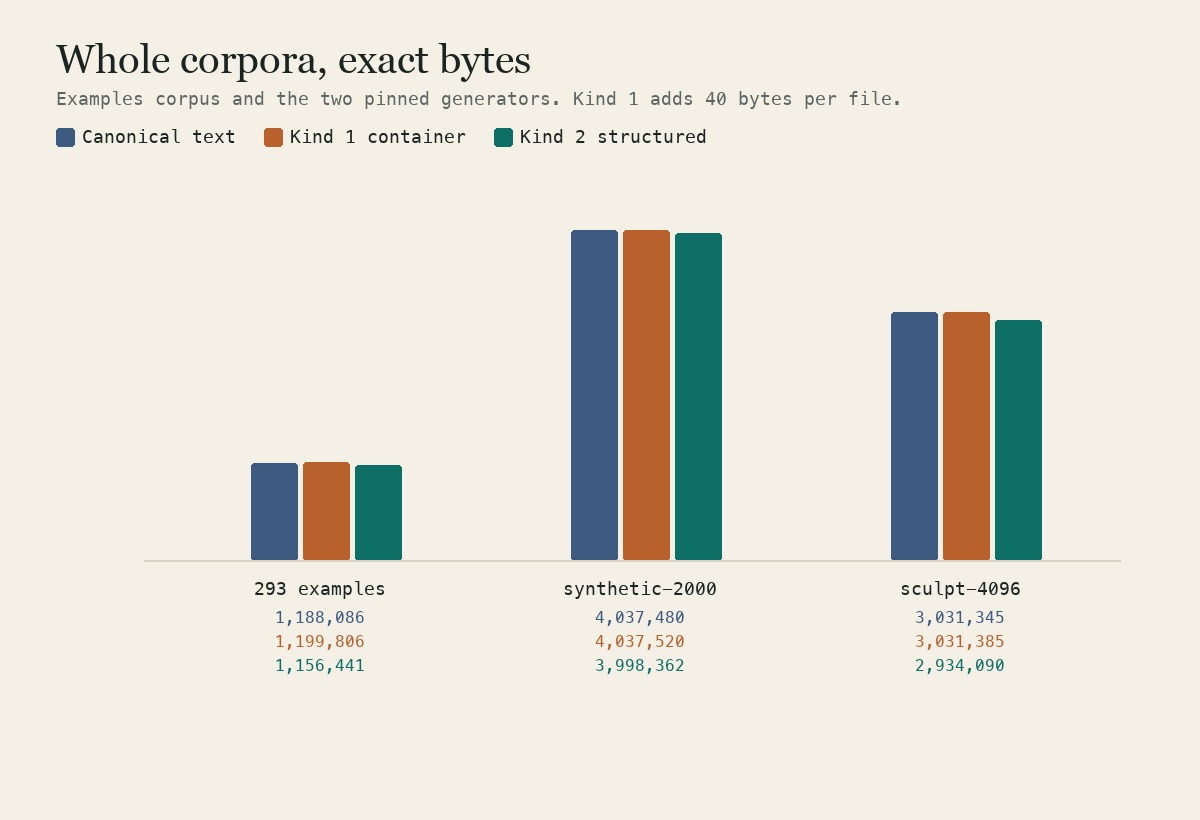
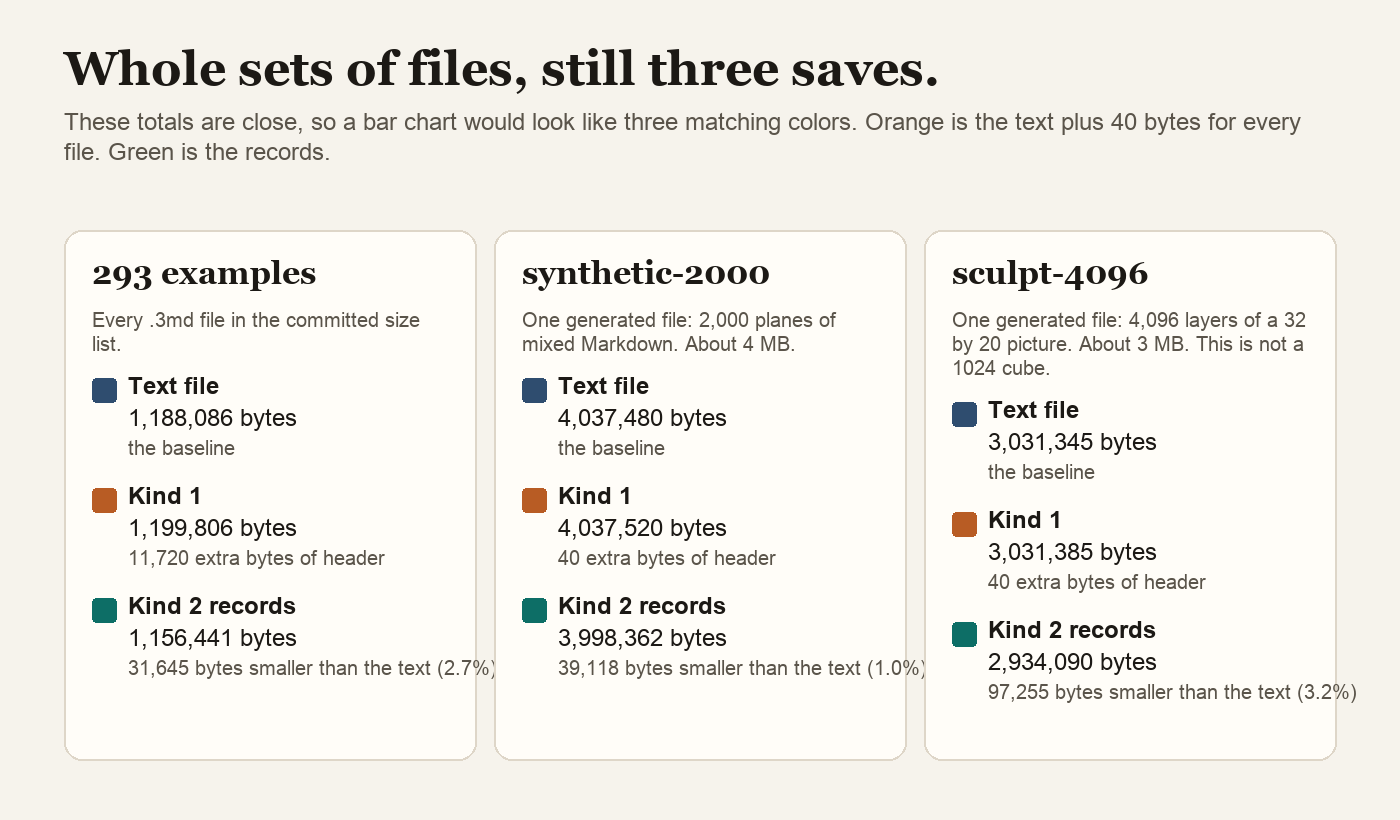
Fix: explain the README charts in plain language
The pictures compare one document saved three ways: the text file, that
text plus a 40-byte header, and structured records. The 64 MiB ceiling is
a safety stop. The 1024 cube test is a 1 GB buffer the library refuses.

diff --git a/README.md b/README.md
@@ -39,9 +39,8 @@ and scrub through them.
   <a href="https://corvidlabs.github.io/3md/"><img src="docs/demo.png" alt="The 3md interactive demo: planes stacked along the Z axis with a synced source view" width="760"></a>
 </p>
 
-The pictures below compare the readable text with the two binary payloads,
-including a 1 GiB and a 10 GiB input. Those two are refused. The ceiling is
-64 MiB.
+[Same document, three saves](#same-document-three-saves) shows one file stored
+as text and as two kinds of binary, and why a file bigger than 64 MB is refused.
 
 ```
 ---
@@ -88,56 +87,83 @@ with the author declaring what that axis means. Nothing comparable ships today;
 the closest prior art renders existing Markdown into 3D rather than giving the
 text a depth dimension of its own.
 
-## Text, kind 1, and kind 2
+## Same document, three saves
 
-A `.3md` file stays text. `.binary` writes payload kind 2: the same document as
-structured records inside a 40-byte header. `encodeTextContainer` writes payload
-kind 1: that same header in front of the canonical UTF-8. Kind 1 is what a
-ThreeMD 2.0 reader accepts. A 2.0 reader stops on kind 2 with
-`unsupportedPayloadKind(2)` before it checks the CRC.
+Yes. The pictures compare the non-binary text file with two binary saves of
+that same document. They do not compare different documents, and the colors
+are not a score. Each color is one way to save the file.
+
+| Color | Save | What you are looking at |
+| --- | --- | --- |
+| Blue | Text file | The `.3md` file. Ordinary UTF-8. This is the baseline. |
+| Orange | Kind 1 | That same text inside a binary file, after a 40-byte header. Always 40 bytes larger. A ThreeMD 2.0 reader can open it. |
+| Green | Kind 2 | The same document as binary records. Usually a little smaller than the text. A wall of the same letter can be a few bytes larger. A 2.1 reader opens it. A 2.0 reader does not. |
+
+Kind 1 is not compressed text. It is the text plus 40 bytes. Kind 2 is not a
+zip of the text either. It stores the planes as records, so repeated `@plane`
+lines are not written out again.
 
 <p align="center">
-  <img src="docs/readme/z-axis.gif" alt="Animation of Examples/animation.3md: four frames of a bouncing dot, then the text, kind 1, and kind 2 byte lengths 415, 455, and 351" width="760">
+  <img src="docs/readme/same-document.png" alt="Three labeled cards for one animation file: text 415 bytes, kind 1 455 bytes (the text plus a 40-byte header), kind 2 records 351 bytes." width="880">
 </p>
+
+[Examples/animation.3md](Examples/animation.3md) is the bouncing dot in that
+picture. The text file is 415 bytes. Kind 1 is 455, which is 415 + 40. Kind 2
+is 351.
+
+<p align="center">
+  <img src="docs/readme/z-axis.gif" alt="The four text planes of the bouncing dot, then the same file saved as text (415 bytes), kind 1 (455), and kind 2 (351)." width="760">
+</p>
+
+The moving picture is those four text planes, then the three saves. Blue,
+orange, and green are not three different animations.
+
+The next diagram is that same choice as a path. One parsed document can be
+written three ways.
 
 ```mermaid
 flowchart LR
   source[".3md text"] --> parsed[Parse]
   parsed --> document[Document]
-  document --> textOut["Canonical text"]
-  document --> kind1["Kind 1 container"]
-  document --> kind2["Kind 2 container"]
+  document --> textOut["Text file"]
+  document --> kind1["Kind 1: text plus a 40-byte header"]
+  document --> kind2["Kind 2: records"]
   kind1 --> both["2.0 and 2.1 readers"]
   kind2 --> current["2.1 readers"]
   kind2 --> legacy["2.0 reader: unsupportedPayloadKind"]
 ```
 
+The diagram after it is how a reader decides what it was given. A file longer
+than 64 MB is refused before any of those branches. 64 MB here means 64 MiB:
+67,108,864 bytes, not 64,000,000.
+
 ```mermaid
 flowchart TD
   bytes[Input bytes] --> length{Longer than 64 MiB?}
-  length -->|yes| refused[oversizedInput]
-  length -->|no| magic{Magic is 3mdbin CR LF?}
-  magic -->|no| asText[Decode as text]
-  magic -->|yes| kind{Payload kind}
-  kind -->|1| asKind1[Canonical UTF-8 payload]
-  kind -->|2| asKind2[Structured records]
+  length -->|yes| refused["oversizedInput. The bytes are not read."]
+  length -->|no| magic{Starts with 3mdbin CR LF?}
+  magic -->|no| asText[Read it as the text file]
+  magic -->|yes| kind{Kind byte}
+  kind -->|1| asKind1[The payload is the text]
+  kind -->|2| asKind2[The payload is records]
   kind -->|other| bad[unsupportedPayloadKind]
 ```
 
 <p align="center">
-  <img src="docs/readme/container-header.png" alt="The 40-byte version 1 header: magic, version, kind, compression, flags, reserved, encoded length, decoded length, and CRC-32" width="880">
+  <img src="docs/readme/container-header.png" alt="The 40-byte header that makes kind 1 larger than the text. The kind byte is 1 for text inside the header, or 2 for records." width="880">
 </p>
 
-Kind 2 removes repeated syntax. It is the record form of the document. On the
-293 files in `Examples/`, it is smaller than the canonical text every time, and
-the whole corpus shrinks by 31,645 bytes (2.7%). A page of repeated characters
-barely changes size. A tiny file can grow by a few bytes.
+That header is why kind 1 is 40 bytes larger than the text. Both binary saves
+use it. The text file has no header. The byte at offset 10 is the kind: 1
+means the payload is the text, 2 means the payload is records.
+
+### Six files, three saves each
 
 <p align="center">
-  <img src="docs/readme/small-documents.png" alt="Grouped bars of canonical text, kind 1, and kind 2 bytes for canopy, animation, planner, grove, poem, and helix" width="880">
+  <img src="docs/readme/small-documents.png" alt="Six files. Each group is one file saved three ways: text, text plus 40 bytes, and records. Grove's records are one byte larger than its text. The poem's records are 751 bytes against 940." width="880">
 </p>
 
-| Document | Canonical text | Kind 1 | Kind 2 |
+| Document | Text file | Kind 1, text plus 40 | Kind 2 records |
 | --- | ---: | ---: | ---: |
 | [canopy.3md](Examples/Extensions/canopy.3md) | 111 | 151 | 101 |
 | [animation.3md](Examples/animation.3md) | 415 | 455 | 351 |
@@ -147,82 +173,121 @@ barely changes size. A tiny file can grow by a few bytes.
 | [dna-double-helix.3md](Examples/dna-double-helix.3md) | 2,358 | 2,398 | 1,995 |
 | [conways-game-of-life.3md](Examples/conways-game-of-life.3md) | 17,509 | 17,549 | 17,255 |
 
-Kind 1 is the canonical text plus the 40-byte header on every row. Shared grove
-is the row where kind 2 is one byte larger than the text and 39 bytes smaller
-than kind 1. The poem is the largest relative drop in the example set: 751 /
-940 = 0.799. Conway, the biggest example file, drops 254 bytes.
+Kind 1 is the text column plus 40 on every row. Grove is the row where the
+records are one byte larger than the text. The poem is the large drop in this
+set: 751 bytes is 79.9% of 940. Conway is in the table and left off the
+picture, so 17,509 bytes do not flatten the other bars.
+
+### Adding many files together
 
 <p align="center">
-  <img src="docs/readme/corpus-bytes.png" alt="Canonical, kind 1, and kind 2 bytes for the 293 examples, synthetic-2000, and sculpt-4096" width="880">
+  <img src="docs/readme/corpus-bytes.png" alt="Three sets of files, each with text, kind 1, and kind 2 totals. 293 examples: records are 31,645 bytes smaller. sculpt-4096 is 4,096 layers of 32 by 20, not a 1024 cube." width="880">
 </p>
 
 <p align="center">
-  <img src="docs/readme/size-ratio.png" alt="Histogram of kind 2 divided by canonical text for 293 example files. Median 0.974, smallest 0.799, largest 0.992" width="880">
+  <img src="docs/readme/size-ratio.png" alt="How many of 293 example files have kind 2 at each percent of the text size. 100% would match the text. The typical file is 97.4%. The tall bar is 123 files." width="880">
 </p>
 
-Those corpus totals are the committed size gate in
-[conformance/structured/sizes.json](conformance/structured/sizes.json). The test
-`g6_kind_2_sizes_match_sizes_json` checks them.
+| Input | What it is | Text bytes | Kind 1 | Kind 2 records | Kind 2 / text |
+| --- | --- | ---: | ---: | ---: | ---: |
+| 293 example files | The committed size list | 1,188,086 | 1,199,806 | 1,156,441 | 0.973 |
+| synthetic-2000 | One file: 2,000 planes of mixed Markdown | 4,037,480 | 4,037,520 | 3,998,362 | 0.990 |
+| sculpt-4096, 32 by 20 | One file: 4,096 layers of a 32 by 20 picture. Not a 1024 cube | 3,031,345 | 3,031,385 | 2,934,090 | 0.968 |
 
-| Input | Canonical text | Kind 1 | Kind 2 | Kind 2 / text |
-| --- | ---: | ---: | ---: | ---: |
-| 293 example files | 1,188,086 | 1,199,806 | 1,156,441 | 0.973 |
-| synthetic-2000 | 4,037,480 | 4,037,520 | 3,998,362 | 0.990 |
-| sculpt-4096, 32 by 20 | 3,031,345 | 3,031,385 | 2,934,090 | 0.968 |
+Kind 1 for the 293 files is the text total plus 293 times 40, which is 11,720
+bytes. The records are 31,645 bytes smaller than the text (2.7%). A typical
+file in that list has records at 97.4% of its text. The biggest saving is the
+poem, at 79.9%. The smallest saving is `annotated-contract.3md`, at 99.2%.
+Every file in the list is under 100%. Those totals are the committed check in
+[conformance/structured/sizes.json](conformance/structured/sizes.json). The
+test `g6_kind_2_sizes_match_sizes_json` checks them. The two generated files
+are not committed. The sizes are.
 
-synthetic-2000 and sculpt-4096 are the pinned generators in `scripts/bench/`.
-The files are not committed. The sizes are.
+### Reading the text vs reading the records
 
-### One local timing run
+This picture is a speed comparison, not another size comparison. Each row is
+one made-up document of the letter `a`. Blue is how long the text file took to
+read. Green is how long the records took. Kind 1 is left off, because kind 1
+is the text plus a header, so reading it means reading the text.
 
-The release gate for speed is
-[docs/design/threemd-2.1/perf-gate.md](docs/design/threemd-2.1/perf-gate.md).
-It wants three processes per language, on named inputs, and it is still open.
-The chart below is one Rust 1.98.0 release process on an Apple M1 Ultra
-(macOS 26.5.2, 64 GB). Each bar is the median of five calls after one warmup.
-The documents are planes of the letter `a`, generated for this page.
+The two bars in a row compare only with each other. Do not compare bar lengths
+down the picture. A full blue bar means "this row's text time," not "a big
+file."
 
 <p align="center">
-  <img src="docs/readme/decode-time.png" alt="Log-scale decode times. At 8 planes of 6 MiB, text decode is 104.403 ms and kind 2 decode is 19.287 ms" width="880">
+  <img src="docs/readme/decode-time.png" alt="Five documents. In each row the text file took about 5 to 7 times as long to read as the records. The largest row is about 50 MB: 104.403 ms for text, 19.287 ms for records. One Rust run, not the speed gate." width="880">
 </p>
 
-| Shape | Canonical bytes | Kind 2 bytes | Text decode | Kind 2 decode |
+| Document | Text bytes | Kind 2 bytes | Text read | Records read |
 | --- | ---: | ---: | ---: | ---: |
 | 64 planes of 256 `a` | 17,318 | 16,763 | 0.078 ms | 0.012 ms |
 | 512 planes of 256 `a` | 138,690 | 134,140 | 0.591 ms | 0.091 ms |
 | 4,096 planes of 256 `a` | 1,113,050 | 1,073,148 | 4.649 ms | 0.690 ms |
-| 8 planes of 1 MiB | 8,388,760 | 8,388,715 | 17.322 ms | 3.139 ms |
-| 8 planes of 6 MiB | 50,331,800 | 50,331,763 | 104.403 ms | 19.287 ms |
+| 8 planes of 1 MB | 8,388,760 | 8,388,715 | 17.322 ms | 3.139 ms |
+| 8 planes of 6 MB, about 50 MB | 50,331,800 | 50,331,763 | 104.403 ms | 19.287 ms |
 
-At 50,331,800 canonical bytes, kind 2 is 37 bytes smaller. The decode call took
-19.287 ms against 104.403 ms for the text. A one-plane document of 64 `a`
-characters goes the other way on size: 125 canonical bytes, 127 kind 2 bytes.
+One Rust 1.98.0 release process on an Apple M1 Ultra (macOS 26.5.2, 64 GB).
+Each time is the median of five calls after one warmup. The project speed gate
+is still open. It wants three processes per language, and these numbers are
+not that gate. At about 50 MB, kind 2 is 37 bytes smaller than the text.
 
-### Where 1 GiB and 10 GiB stop
+### Why the library stops at 64 MB
 
-The default ceiling is 64 MiB encoded and 64 MiB decoded
-(67,108,864 bytes). Callers can lower that. They cannot raise it. A record,
-line, scalar, preamble, or plane body defaults to 8 MiB. Planes default to
-65,536. Physical lines default to 100,000.
+The decoder refuses an input longer than 67,108,864 bytes (64 MiB) before it
+reads the contents. A text file and both binary kinds hit the same wall. A
+caller can set a lower limit. No caller can raise this one. The stop is there
+so a huge or hostile file cannot make the library reserve a gigabyte.
+
+Inside that ceiling, one line or one plane body stops at 8 MB. One file stops
+at 65,536 planes and at 100,000 physical lines.
+
+### What the 1024 × 1024 × 1024 test was
+
+1024 × 1024 × 1024 is 1,073,741,824 bytes. That is 1 GB in the binary sense
+(1024 cubed), about 16 times the ceiling. A document of 1024 planes, each
+1024 lines of 1024 letters, is about that big before the `@plane` lines. The
+library does not store it.
+
+The test filled a buffer of exactly that many bytes with the letter `x` and
+asked the library to open it. The answer was `oversizedInput` in 6
+nanoseconds, after the buffer already existed. The library did not parse the
+cube and did not save it. Filling the 1 GB buffer took 109 ms. That fill time
+is the test program allocating the bytes, not the library storing a document.
+
+The same length check refuses 64 MB + 1 byte, also in 6 nanoseconds. A buffer
+of exactly 64 MB passes the length check and then fails as one giant line:
+`oversizedRecord` in 4.2 ms. A 10 GB buffer (10,737,418,240 bytes), measured
+earlier on this same machine, got the same `oversizedInput` answer. Filling
+that buffer took 1.27 s.
+
+A 1024-wide page does fit. One plane, 1024 lines of 1024 letters `a`, measured
+with this same Rust 1.98.0 release build (median of five reads after one
+warmup, still one run, not the speed gate):
+
+| Save | Bytes | Read time |
+| --- | ---: | --- |
+| Text file | 1,049,641 | 2.307 ms |
+| Kind 1 | 1,049,681 | The text plus the 40-byte header |
+| Kind 2 records | 1,049,654 | 0.384 ms |
+
+On that page the records are 13 bytes larger than the text, because a wall of
+one letter has almost no syntax to remove. They were still quicker to read in
+this run.
+
+The same number of letters, split into 1024 planes of one 1024-letter line,
+does get smaller. The `@plane` lines go away: text 1,063,879 bytes, kind 2
+1,054,706 bytes.
+
+60 of those 1024 × 1024 pages fit, at 62,976,799 text bytes. 64 of them do
+not. The letters alone are already 67,108,864, and the writer returns
+`oversizedOutput`.
+
+A one-plane body of 64 letters `a` is the tiny file that grows: text 106
+bytes, kind 1 146 bytes, kind 2 117 bytes.
 
 <p align="center">
-  <img src="docs/readme/size-ceiling.png" alt="Four measured refusals: 64 MiB returns oversizedRecord in 4.2 ms; 64 MiB plus 1 byte, 1 GiB, and 10 GiB return oversizedInput in 4 ns" width="880">
+  <img src="docs/readme/size-ceiling.png" alt="Why decoding stops at 64 MiB. A 1024 by 1024 page fits. A buffer of 1024 times 1024 times 1024 bytes is refused as oversizedInput in 6 nanoseconds and is not stored." width="880">
 </p>
-
-| Buffer of the byte `x` | Library result | What the call did |
-| --- | --- | --- |
-| 67,108,864 bytes (64 MiB) | `oversizedRecord` in 4.2 ms | The length is allowed. One 64 MiB line is past the 8 MiB record limit. One call. |
-| 67,108,865 bytes | `oversizedInput` | Length check only. |
-| 1,073,741,824 bytes (1 GiB) | `oversizedInput` | Same length check. Filling the buffer took 90 ms. |
-| 10,737,418,240 bytes (10 GiB) | `oversizedInput` | Same length check. Filling the buffer took 1.27 s. |
-
-The 4 ns figure is the mean of 10,000 `decode` calls after the buffer already
-existed. It was 0.004 µs at 64 MiB + 1, at 1 GiB, and at 10 GiB. The check
-reads the length. It does not read the payload. Holding a 10 GiB buffer is the
-caller's cost. The library does not store that buffer as a document.
-
-An 8 MiB plane of `a` does encode. Canonical text for that one plane is
-8,388,669 bytes, and kind 2 is 8,388,674 bytes.
 
 ## Installation
 
@@ -329,8 +394,8 @@ let text = Serializer().render(document)
 
 ## Binary storage and reusable documents
 
-The byte counts, the GIF, and the 1 GiB / 10 GiB refusal are in
-[Text, kind 1, and kind 2](#text-kind-1-and-kind-2). ThreeMD 2.0.0 provides
+The byte counts, the GIF, and the 1 GB refusal are in
+[Same document, three saves](#same-document-three-saves). ThreeMD 2.0.0 provides
 bounded general-document storage and self-contained composition in Swift,
 TypeScript and Rust. The examples below use Swift; see
 [EDITING-RELEASE.md](docs/EDITING-RELEASE.md) for the TypeScript and Rust
@@ -353,10 +418,11 @@ let compressed = try DocumentStorageCodec.encode(
 ```
 
 `.binary` writes payload kind 2: structured document records inside the
-unchanged version 1 container. It is smaller than the canonical text and
-decodes without parsing that text. `encodeTextContainer` writes payload kind
-1, the ThreeMD 2.0 canonical UTF-8 payload, for a reader that does not know
-kind 2. A 2.0 reader stops on kind 2 with `unsupportedPayloadKind(2)`.
+unchanged version 1 container. The records are often a little smaller than the
+text, and a page of repeated letters can be a few bytes larger. Decoding them
+does not parse that text. `encodeTextContainer` writes payload kind 1, the
+ThreeMD 2.0 canonical UTF-8 payload, for a reader that does not know kind 2.
+A 2.0 reader stops on kind 2 with `unsupportedPayloadKind(2)`.
 
 ```swift
 let legacy = try DocumentStorageCodec.encodeTextContainer(document)
@@ -364,8 +430,10 @@ let legacy = try DocumentStorageCodec.encodeTextContainer(document)
 
 The magic is `3mdbin\r\n`. It is separate from Sculpt/Rook's older
 voxel-specific `3MDB` container. Defaults cap encoded and decoded data at
-64 MiB, with limits for records, planes and physical lines. Unavailable
-compression, malformed headers, excess limits and cancellation produce errors.
+64 MiB (67,108,864 bytes). Callers can lower that cap and cannot raise it.
+One line or plane body stops at 8 MiB. The reason, and the 1024 cube
+measurement, are in [Same document, three saves](#same-document-three-saves).
+Unavailable compression, malformed headers, excess limits and cancellation produce errors.
 CRC detects corruption and does not authenticate content. Kind 1 and kind 2
 both use that checksum.
 
